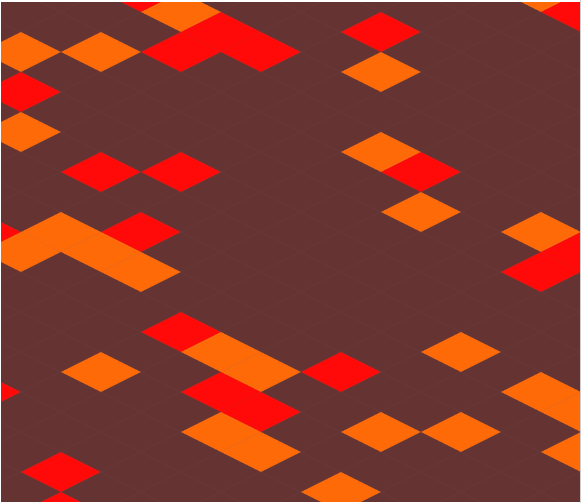
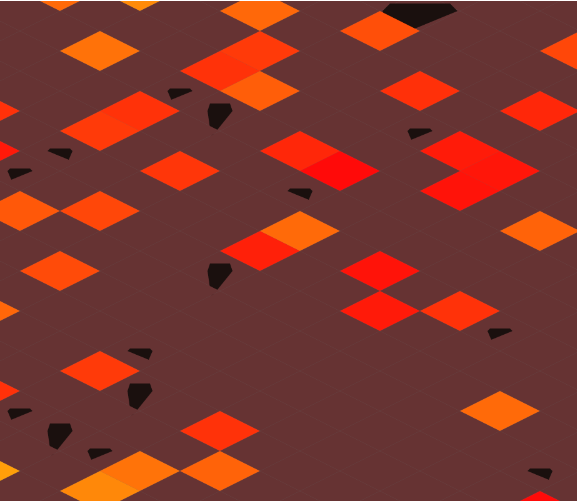
rocks

diff --git a/experiment4/index.html b/experiment4/index.html
@@ -67,7 +67,8 @@
 					<a href="https://savanna-world-generator.glitch.me/">Link to Savannah-world Generator: </a><br><br>
 
 					This generator simulates an endless stretch of barley cooled over magma. Lava shifts between
-					colors over time (shades of red-orange and yellow) to create a living, glowing effect.
+					colors over time (shades of red-orange and yellow) to create a living, glowing effect. Periodic 
+					rocks add texture.
 					<a href="https://lava-world-generator.glitch.me/">Link to Lava-world Generator: </a>
 				</p>
 			</div>
